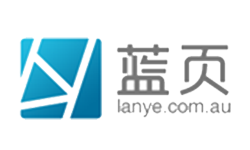
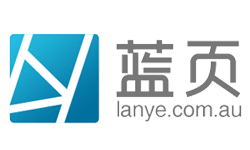
更新lanye和zoyu的logo

Changed region(s): [[0.448, 0.2667, 0.98, 0.8267], [0.028, 0.2133, 0.42, 0.8267]]

diff --git a/index.html b/index.html
@@ -120,8 +120,9 @@
           <small>千万不要错过的活动</small>
         <!-- Events -->
         <div class="row" id="recent-event">
-          <div class="col-xs-12 col-sm-4 col-md-4 col-lg-4">
-            <img class="img-responsive" src="" alt="Generic placeholder image">
+          <div class="col-xs-12 col-sm-4 col-md-4 col-lg-4 ">
+            <img class="img-responsive" src="assets/img/spinner.gif" height="160" width="120" alt="Generic placeholder image">
+
             <h3>Sep 2013</h3>
             <p>IDs 书友er船上轰趴</p>
             <p><a class="btn btn-primary" href="#" role="button">了解更多 &raquo;</a></p>
